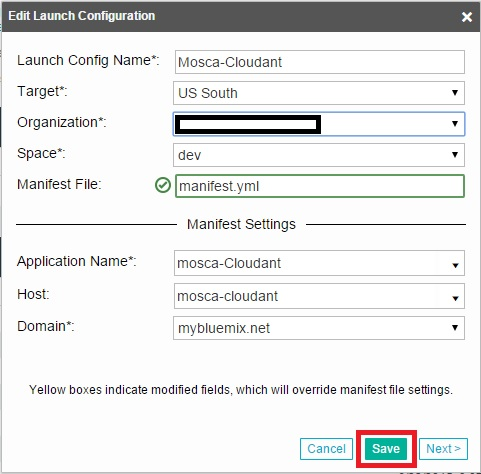
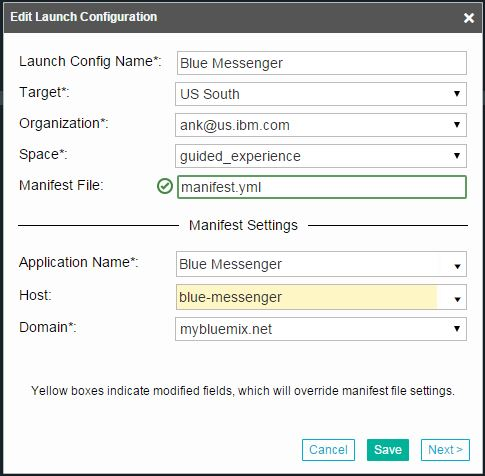
updates to manifest and images

Changed region(s): [[0.0, 0.0, 1.0, 1.0], [0.343, 0.5316, 0.9044, 0.6498], [0.0624, 0.7975, 0.9356, 0.8565]]

diff --git a/public/index.html b/public/index.html
@@ -12,7 +12,7 @@
 </head>
 <body>
     <div class="pull-left">
-        <h4>IBM Guided Experience <a href="https://hub.jazz.net/project/ank/Mosca-Cloudant/overview" target="_blank">About</a></h4>
+        <h4>IBM Guided Experience <a href="https://hub.jazz.net/project/ank/Blue%20Messenger/overview" target="_blank">About</a></h4>
     </div>
     <div class="pull-right">
         <h4>Made with <b>IBM Bluemix</b></h4>

diff --git a/README.md b/README.md
@@ -1,5 +1,5 @@
 # Workload - Scalable Web App
----	
+	
 
 ###Scalable Web Application example implemented in Cloud Foundry 
 
@@ -12,10 +12,10 @@ the Bluemix services "Monitoring and Analytics", "Autoscale", and "Cloudant NoSQ
 
 ## Introduction
 
-A messaging web application has been created so we can depoly it into our personal space
-after signing up for Bluemix and the DevOps service. We will attach the
-"Monitoring and Analytics", "Autoscale", and "Cloudant NoSQL DB" services and provide instructions
-for understanding how the application works and how to monitor the attached services.  
+A messaging web application has been created so you can depoly it into your personal space
+after signing up for Bluemix and the DevOps service. You will attach the
+**Monitoring and Analytics**, **Auto-Scaling**, and **Cloudant NoSQL DB** services to the application as well as learn how to begin using these services.
+
 
 ## Sign up for / Log into Bluemix and DevOps
 
@@ -25,143 +25,71 @@ For more information, reference the Bluemix getting started documents at -
 
 ## Create Node.js Application and Attach the Services
  
-Our first goal is to create a Node.js application through the Bluemix UI. Afterward, we will create and bind
-a Cloudant NoSQL Database. This will be used to store messages that we send. We will then create and bind the "Monitoring and Analytics"
-and "Autoscaling" services. Bluemix provides these services embedded in the Bluemix Service Catalog. Once we have created a Node.js application
-with these services, we will set out to fork (copy) the application's code and deploy it over the blank Node.js application.
+The goal is to create a Node.js application through the Bluemix UI. You will use the initial Node.js applicaiton to add Bluemix services.  Afterward, you will create and bind
+a Cloudant NoSQL Database. This will be used to store messages that we send. We will then create and bind the Monitoring and Analytics
+and Autoscaling services. Bluemix provides these services embedded in the Bluemix Service Catalog. Once we have created a Node.js application
+with these services, we will set out to fork (copy) the application's code and deploy it over the starter Node.js application.
 
-	1) Log into your Dashboard at https://console.ng.bluemix.net.
-    2) From the main dashboard page select "CREATE AN APP".
+* Log into your Dashboard at https://console.ng.bluemix.net.
+* From the Dashboard page select CREATE AN APP.
     
-![Example](images/createanapp.jpg)
-
-    
-This will open a window to select either "Web" or "Mobile".
+This will open a window to select either Web or Mobile.
 	
-	3) Select "Web".
-	4) In the next window, select "SDK for Node.js".
-	
-![Example](images/nodejs-1.jpg)
-
-	5) In the next window, select "Continue".
-	6) In the next window, where it says "App Name", give a name for your web application and select "FINISH".
+* Select **Web**.
+* In the next screen, select **SDK for Node.js**.
+* Now, where it says **App Name**, specify a name for your web application and take note for when you fork your project.
 	
 It may take a while for the application to be created and staged. Once it finishes staging, you will have succesfully
-created a blank Node.js application in Bluemix. You should now see the application in your main dashboard in the
-"Applications" category. We will now bind services to our blank Node.js application. 
+created a starter Node.js application in Bluemix. You should now see the application in your Dashboard in the
+"Applications" category. We will now bind services to our starter Node.js application. 
 
-	1) From your dashboard, select your application you just created.
-
-![Example](images/selectapp-1.jpg)
-
-This will take you into the application's personal dashboard where we can add/bind services.
-
-	2) In the application window select "ADD A SERVICE OR API".
-	
-![Example](images/addservice-1.jpg)
-
-
-The window that pops up is the Services Catalog. 
-
-	3) In the top search bar type "cloudant" and select "Cloudant NoSQL DB".
+* In the left sidebar, select Overview to take you into the application's dashboard where we can add/bind services.
+* Click **ADD A SERVICE OR API**. This directs you to the Services Catalog. 
+* In the top search bar, type "cloudant"
+* From the **Data Management** category, select **Cloudant NoSQL DB**.
 
 ![Example](images/cloudant.jpg)
 
 	
-This will bring up a box where you need to configure the Cloudant service.
+This will bring up a page where you will configure the Cloudant service.
 
-	 In "Space" select your the space in which your blank Node.js application sits.
-	 In "App" select your application.
-	 In "Service name" field put any name you want.
-	 In your "Selected Plan" select your desired plan.
-	 Select "CREATE".
+* Accept the default values.
+* Make note of your **Service name** that you will use later.
+* Click **CREATE**.
+* Restage your application when prompted.
 
-![Example](images/cloudant-1.jpg)
+You have successfully deployed and binded an instance of Cloudant NoSQL DB to your starter Node.js application. 
 
-You have successfully deployed and binded an instance of Cloudant NoSQL DB to your blank Node.js application. 
-For more information on Cloudant please see the docs at https://www.ng.bluemix.net/docs/#services/Cloudant/index.html#Cloudant.
+At this point, we have our starter Node.js application with a binded instance of a Cloudant database. Using what you've learned, add the services **Monitoring and Analytics** and **Auto-Scaling** to your application.
 
-At this point, we have our blank Node.js application with a binded instance of a Cloudant database. For this part of the tutorial, we will be adding
-"Monitoring and Analytics" and "Auto-Scaling" services to the application.
-
-	1) In the application window select "ADD A SERVICE OR API".
-
-![Example](images/addservice-2.jpg)
-
-
-This will bring up the Bluemix Services Catalog.
-	
-	2) In the top search bar type "Monitoring and Analytics" and select "Monitoring and Analytics".
-
-![Example](images/monitoring.jpg)
-
-This will open a window where you will need to provide information about where to attach the service.
-
-	 In "Space" field select your space where your blank Node.js application resides.
-	 In "App" field select your application.
-	 In "Selected Plan" field select your desired plan.
-	 Select "CREATE" and then select "RESTAGE" when a window pops up.
-	 (Your app may automatically restage.)
-	 
-![Example](images/createmonitoring.jpg)
- 
-You have now successfully attached the "Monitoring and Analytics" service to your web application.
-
-	1) Go back to your application page and select "ADD A SERVICE OR API". 
-	2) In the top search bar type "Auto-Scaling" and select "Auto-Scaling".
-
-![Example](images/autoscale.jpg)
-
-This will open a window where you will need to configure the service.
-
-	In "Space" select your space where your blank Node.js application resides.
-	In "App" select your application.
-	In "Selected Plan" select your desired plan.
-	Select "CREATE" and then select "RESTAGE" when a window pops up.
-	(Your app may automatically restage.)
-
-![Example](images/createautoscaling.jpg)
-	
-You have now successfully binded "Monitoring and Analytics" and "Auto-Scaling" services to your web application.
-
+Once you have successfully bound "Monitoring and Analytics" and "Auto-Scaling" services to your web application your app's dashboard should appear like this:
+![Example](images/dashboard-confirmation.jpg)
 
 ## Fork project to personal DevOps space 
 	
 Our next goal is to fork a publicly accessible repository hosted in http://hub.jazz.net into your 
 personal DevOps space. Once we do this, we will be able to deploy the code to Bluemix and spin
 up instances of the Web Application. 
-	
-	1) From https://hub.jazz.net/git/ank/Mosca-Cloudant select "Fork Project" in top right of the page.
 
-![Example](images/forkproject.jpg)
-
- A menu will pop up where you will need to provide infomation on where the code will be forked 
+* Navigate to [the tutorial's repository](https://hub.jazz.net/project/ank/Blue%20Messenger/overview)
+* In top right of the page, click **Fork Project**
+	* A menu will pop up where you will need to provide infomation on where the code will be forked 
 	to.
+* In **Name your project**, use name you chose for your starter Node.js app.
+* Choose the **Space** that your starter Node.js app was created in and click **CREATE**. 
 
-	In the first field "Name your project" name the project the same name you named your blank node.js app.
-	Check "Make it private" if you want the repo to be private; otherwise leave unchecked.
-	Keep "Make this a Bluemix Project" checked.
-	Select your Region, Organization, and Space as your blank Node.js app and select "Create". 
-
-
-![Example](images/create.jpg)
 
 You have successfully forked this application code to your personal Jazz Hub space.
 To find more about Bluemix's DevOps features reference the docs at 
 https://hub.jazz.net/docs.
 
-## Deploy to Bluemix through DevOps space
+## Deploy to Bluemix through DevOps Services
 
-Next, we will take the repository, with the application code we just foked, and deploy over the the blank Node.js 
-application we created. The services we created earlier will still be binded.
+You can now configure your application code for deployment to your own Bluemix environment.  You will be overwriting the deployed starter node application, taking advantage of the services you previously configured.
 
-	1) From the DevOps project page you just created, select "EDIT CODE" at the top right.
-
-![Example](images/editproject.jpg)
-
-In your "EDIT CODE" window  you will see the files that are contained in the application's code.
-
-	2) In your "EDIT CODE" window, click the drop-down menu, found above the code files, and select the pencil symbol to edit launch configuration.
+* On your DevOps Services project page, click **EDIT CODE** at the top right, this opens your web IDE.
+	* In your web IDE you will see the a copy of this README.md that you forked.
+* Click the drop-down menu, found above the code files, and select the pencil symbol to edit launch configuration.
 
 
 ![Example](images/editlaunch.jpg)
@@ -170,26 +98,25 @@ In your "EDIT CODE" window  you will see the files that are contained in the app
 A window will pop up and you will be required to enter information about where the code will be
 deployed to.
 
-	 In the "Launch Config Name*" field give a Config Name.
-	 In the "Target*" field select your app's region.
-	 In the "Organization*" field select your app's organization.
-	 In the "Space*" field select your app's Bluemix space.
-	 In the "Manifest File" field leave the default of "manifest.yml".
-	 In the "Application Name" field select the name of your blank Node.js application.
-	 In the "Host" field select the hostname you gave for your Node.js application.
-	 In the "Domain" field leave default at "mybluemix.net".
-	 Click "Save".
+* In the **Launch Config Name** field give a Config Name.
+* In the **Target** field select your app's region.
+* In the **Organization** field select your app's organization.
+* In the **Space** field select your app's Bluemix space.
+* In the **Manifest File** field leave the default of manifest.yml.
+* In the **Application Name** field select the name of your starter Node.js application.
+* In the **Host** field select the hostname you gave for your Node.js application.
+* In the **Domain** field leave default at mybluemix.net.
+* Click **Save**.
 
 ![Example](images/launchconfig.jpg)]
 
+* To the right of the configuration dropdown, click the **Play** button to deploy your application to Bluemix.
 
+* Navigate to your **Bluemix Dashboard** and select your application to view its deployment status.
+* Once your application is finished deploying, click on the **Routes** link to be navigated to your new web app.
 
-	3) In your "EDIT CODE" window, select the "Play" button to deploy your application to Bluemix.
+![Example](images/website.jpg)
 
-![Example](images/playbutton.jpg)
-
-Once you click "Deploy", Bluemix will reference the launch configurations you specified and read your
-manifest.yml in order to override your blank Node.js application.
 
 
 ## Monitoring Application Performance
@@ -199,17 +126,7 @@ web application.
 	
 For learning how to utilize the data provided in this service see
 https://www.ng.bluemix.net/docs/#services/monana/index.html#gettingstartedtemplate.
-	
-	1) Return to your application's dashboard and the top of the screen you will see the listed routes.
 
-![Example](images/routes.jpg)
-
-
-These are your application's publicly accessible DNS names that can be used to launch your app from a browser.
-	
-	2) Click on any one of your routes to load the "Blue Messenger" application.
-
-![Example](images/website.jpg)
 
 From the main page you will see a "Messaging Rate" dropdown where you specify the rate at which messages 
 are sent to the database. In the "Duration in Minutes" dropdown, you can select how many minutes
@@ -222,15 +139,11 @@ to initiate and stop the messaging.
 	5) Set your duration to "5" minutes.
 	6) Click "Start".
 
-![Example](images/mediumspam.jpg)
-
 
 You have just succesfully started sending messages to the database. To see the messages populated, click on your
 "Cloudant" service in the Application's Dashboard. Click on the "Monitoring and Analytics" service in your
-Application's Dashboard to see and utilize the information you learned in the "Monitoring and Analytics" document 
+application's Dashboard to see and utilize the information you learned in the "Monitoring and Analytics" document 
 referenced above. 
-
-![Example](images/monandcloud.jpg)
 	
 
 ## Test Auto-Scaling
@@ -240,9 +153,8 @@ We are now going to stress our application and monitor the Auto-Scaling service 
 First we must become familiar with the service by reading through the Bluemix documentation on Auto-Scaling at 
 https://www.ng.bluemix.net/docs/#services/Auto-Scaling/index.html#autoscaling.
 
-	1) From your application's dashboard select the "Auto-Scaling" Service.
+	1) From your application's Dashboard select the "Auto-Scaling" Service.
 
-![Example](images/auto-scale-1.jpg)
 
 In here you can utilize the Auto-Scaling service shown in the document referenced above.
 
@@ -253,7 +165,6 @@ In here you can utilize the Auto-Scaling service shown in the document reference
 Once we start sending messages to stress the server, we can monitor auto-scaling from the "Metric Statistics"
 and "Scaling History" tabs.
 
-![Example](images/metrics.jpg)
 
 Start the stress so you can monitor auto-scaling from the 'Auto-Scaling' service.
 
@@ -262,8 +173,6 @@ Start the stress so you can monitor auto-scaling from the 'Auto-Scaling' service
 	3) Set the rate to "High".
 	4) Set your duration to "5" minutes.
 	5) Click "Start".
-
-![Example](images/pressstart.jpg)
 
 	
 ## DevOps Pipeline 
